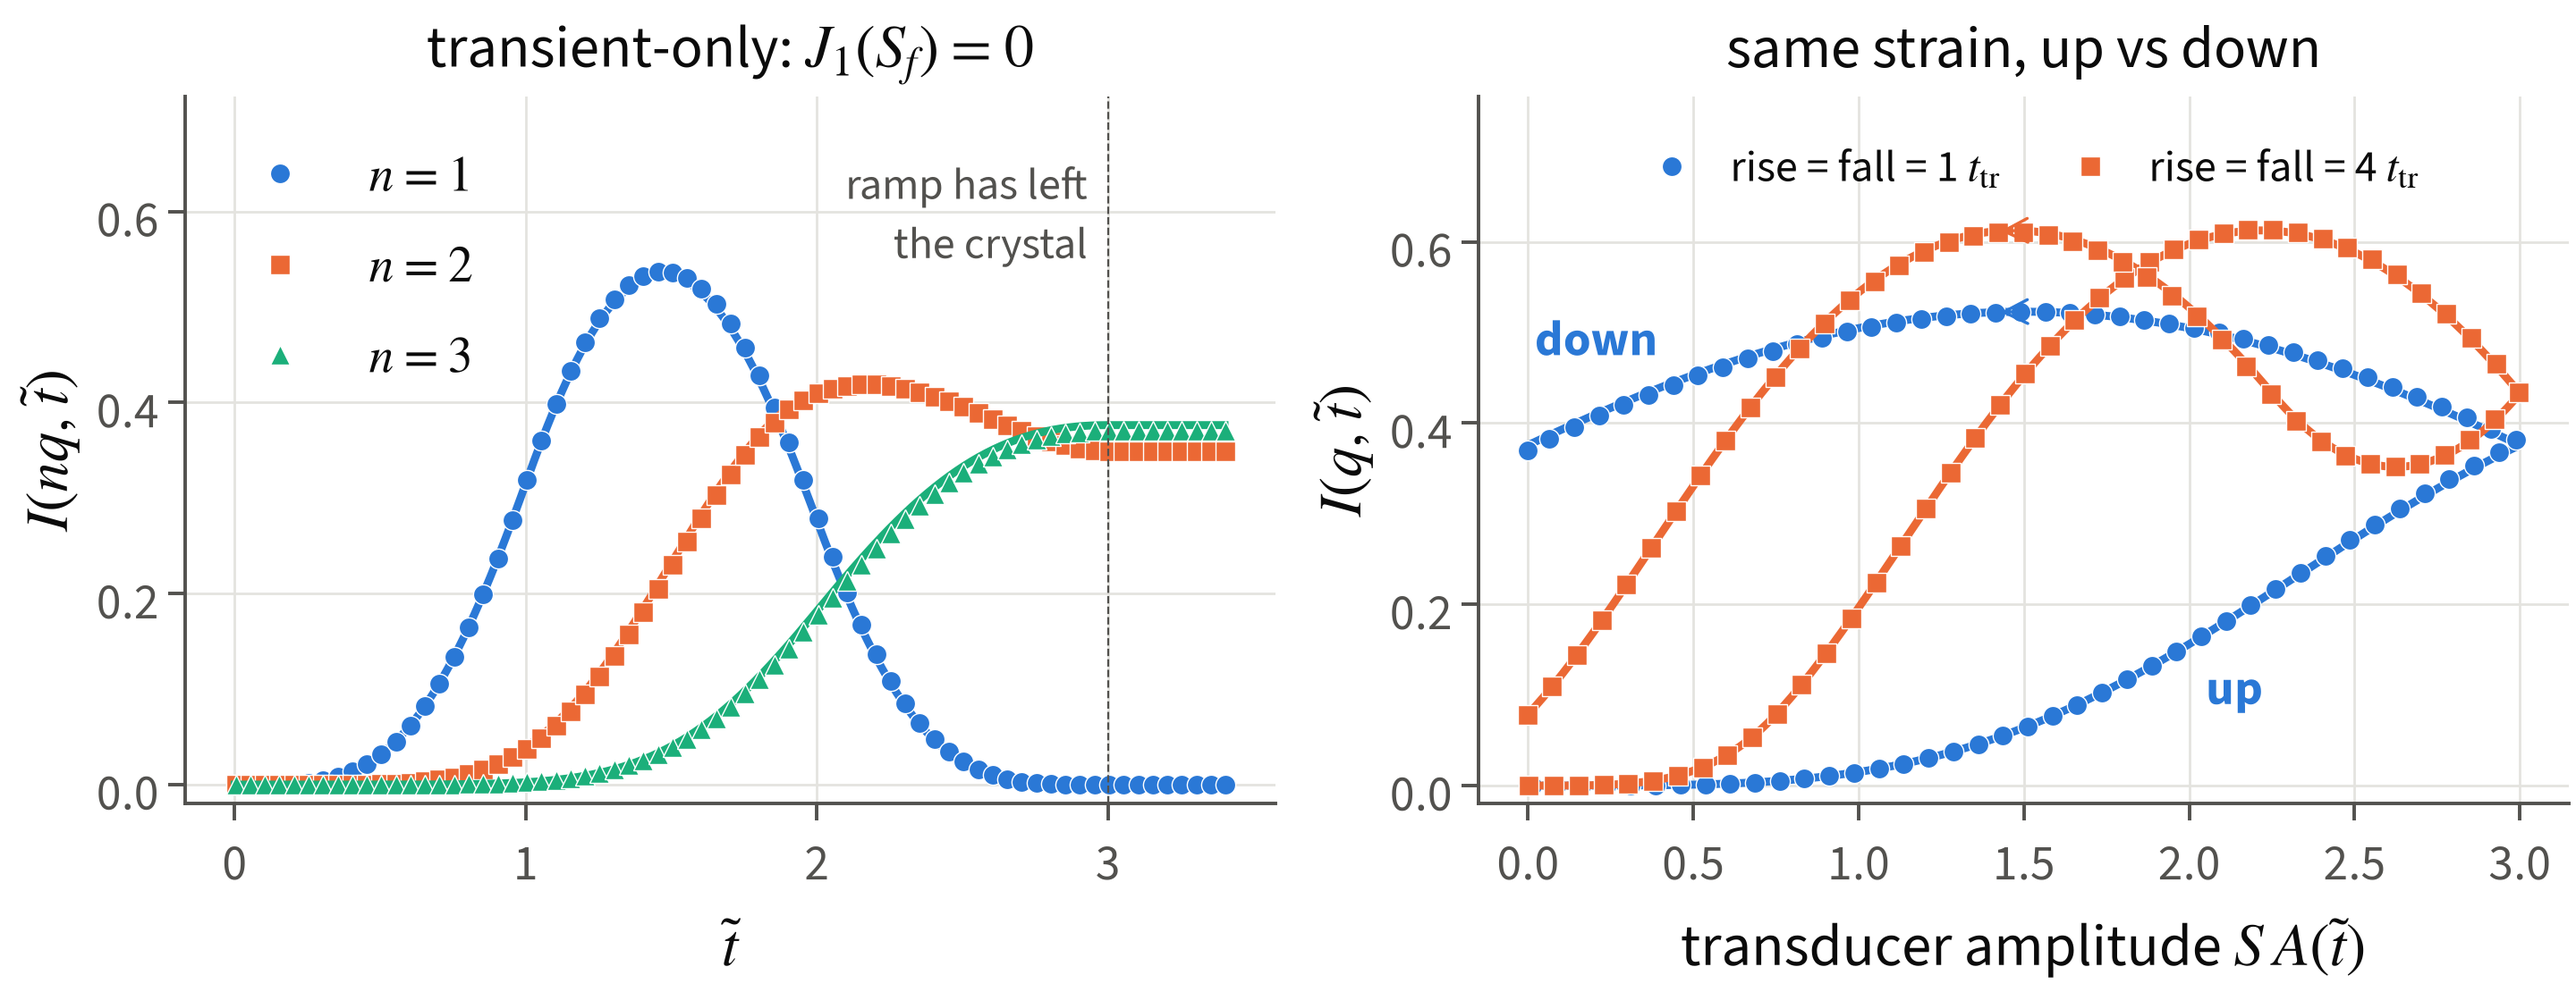
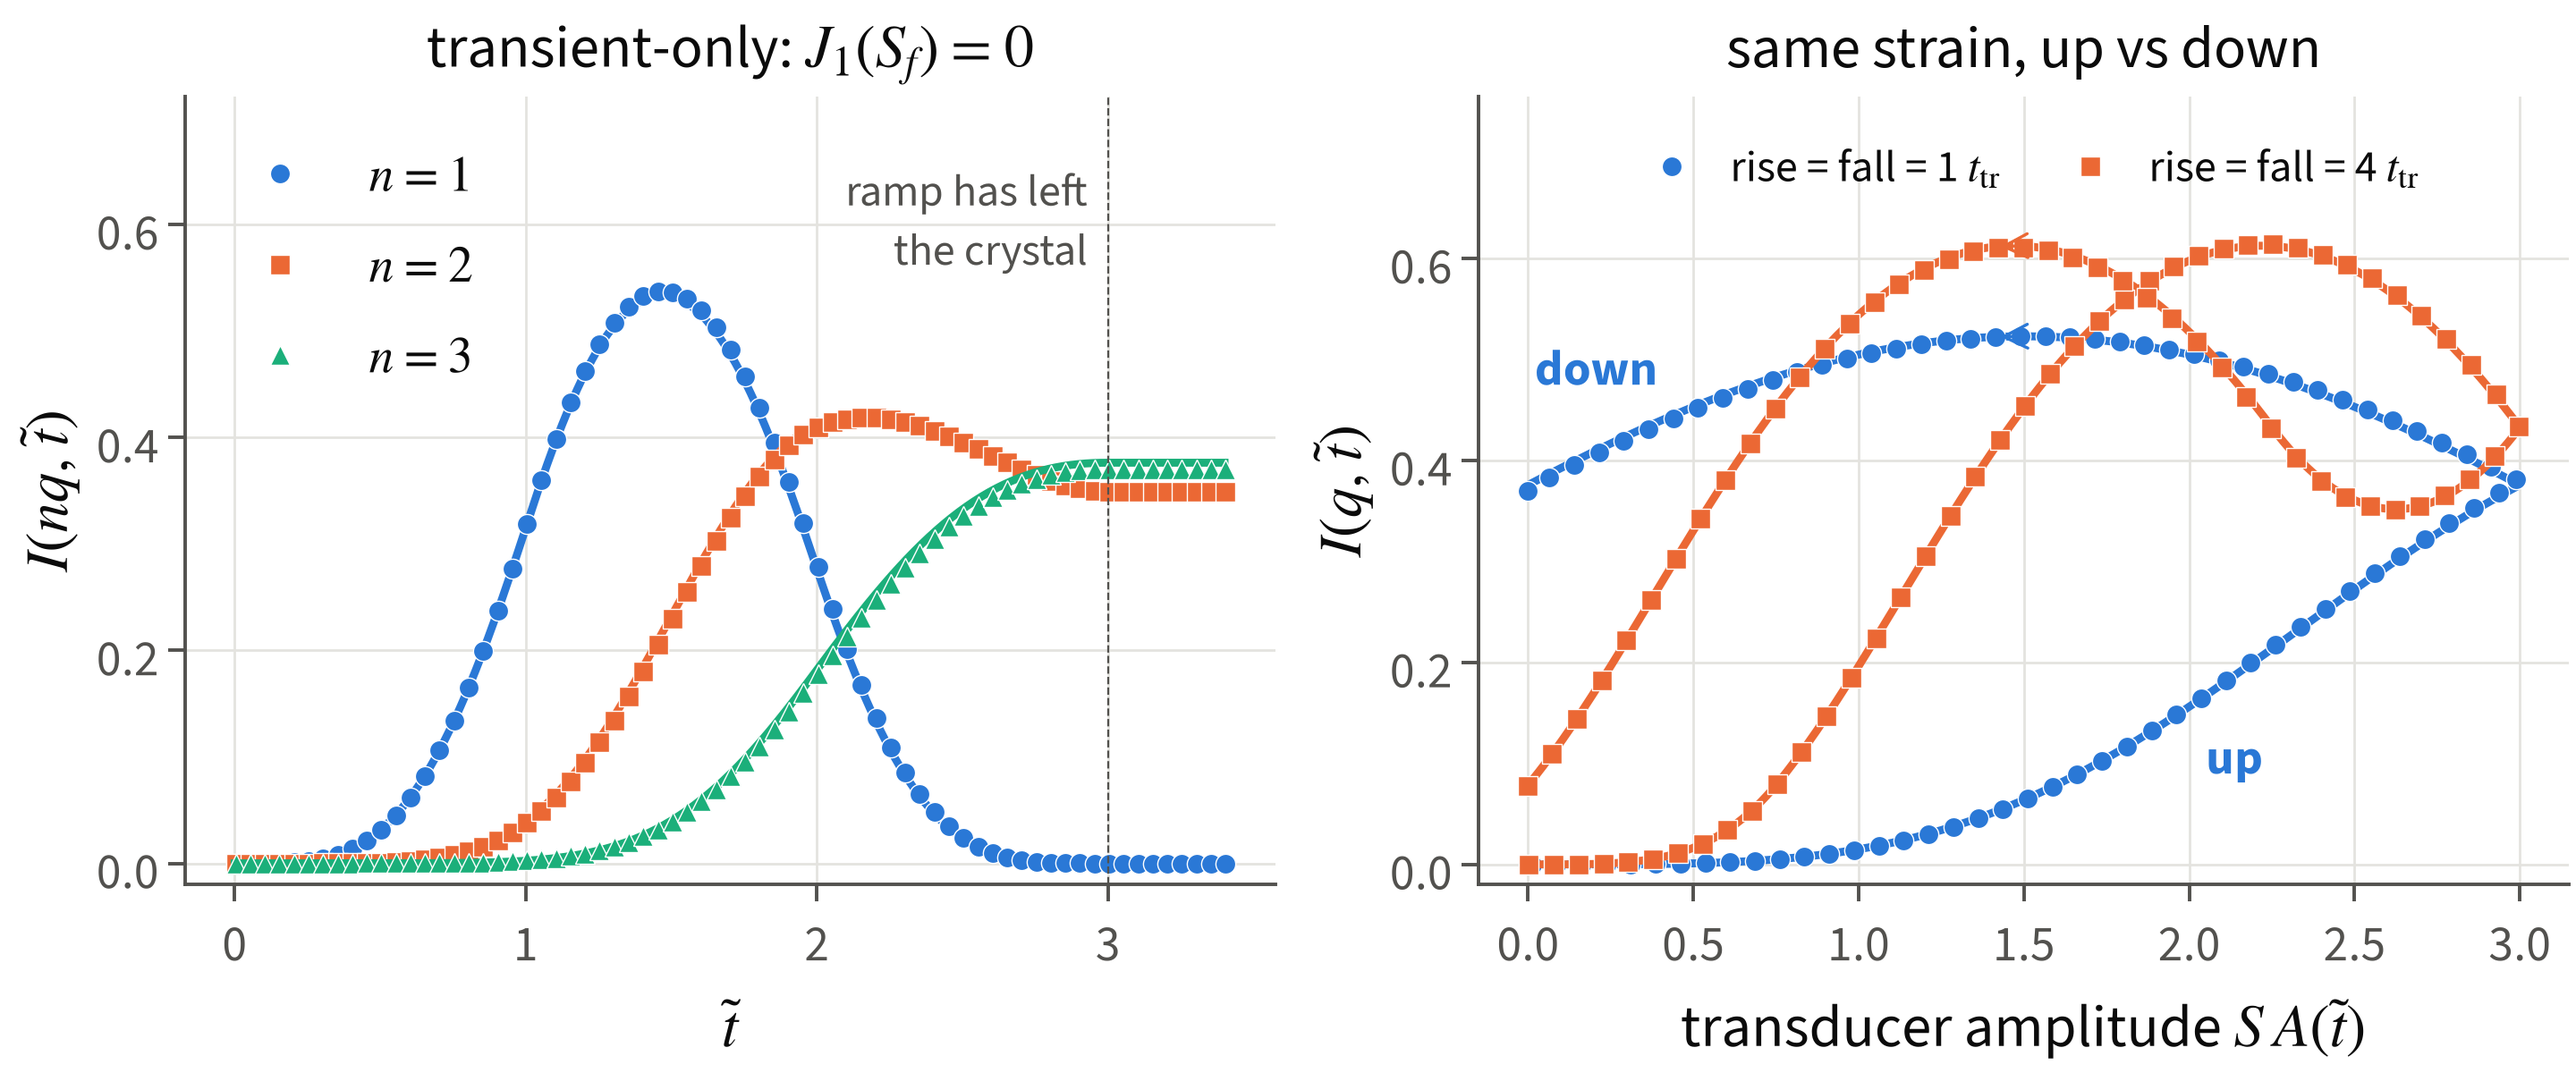
Poster: denser layout, with an Outlook panel for the transfer function
The free height of each column was being spread as 26-31 mm gaps
between boxes. Model now sits in the Overview text column, a new
Outlook panel shows Entries 59 and 64 (one transfer curve; the
Bloch-wave first-order form against the 2003 plane-wave perturbation),
body text is 26 pt as on the lab posters, and the figures take up the
remaining height.

diff --git a/explore/make_poster_figs.py b/explore/make_poster_figs.py
@@ -8,6 +8,8 @@ f1  filled-depth mapping: Laue sin^2 and Bragg tanh^2 collapse      (make_poster
 f2  time-resolved rocking curve near n = 1 and its centre cut        (make_map_figure.compute; Entries 22, 23)
 f3  path memory: transient-only satellite, up vs down a pulse       (make_memory_figure.panel_a/b; Entries 28, 30)
 f4  population error of the independent-channel picture vs R        (make_phase_figure.merged; Entry 54)
+f5  outlook: Fourier weight / kinematic law (Entry 59, e58 data) and the satellite weight of the
+    first-order forms against full TT (Entry 64, e64_sw.json); reads stored results only
 """
 
 from __future__ import annotations
@@ -153,7 +155,7 @@ def f0():
 def f1():
     import make_poster_figure as M
     style()
-    fig, ax = plt.subplots(1, 2, figsize=(FIG_W, 6.9), constrained_layout=True, sharey=True)
+    fig, ax = plt.subplots(1, 2, figsize=(FIG_W, 5.6), constrained_layout=True, sharey=True)
     M.collapse(ax[0], "laue", lambda s: np.sin(np.pi * s) ** 2, r"$\sin^2(\pi\alpha_n\tilde t)$",
                r"Laue: $\sin^2(\pi\alpha_n\tilde t)$", small=SMALL - 4, ms=9)
     M.collapse(ax[1], "bragg", lambda s: np.tanh(np.pi * s) ** 2, r"$\tanh^2(\pi\alpha_n\tilde t)$",
@@ -173,7 +175,7 @@ def f2():
     style()
     r = M.compute()
     deta, t, I, an = r["deta"], r["t"], r["I"], r["an"]
-    fig, ax = plt.subplots(1, 2, figsize=(FIG_W, 5.9), constrained_layout=True,
+    fig, ax = plt.subplots(1, 2, figsize=(FIG_W, 5.2), constrained_layout=True,
                            gridspec_kw=dict(width_ratios=[1.25, 1]))
     im = ax[0].imshow(I, origin="lower", aspect="auto", cmap="Blues", vmin=0, vmax=I.max(),
                       extent=[deta[0], deta[-1], t[0], t[-1]])
@@ -193,7 +195,7 @@ def f2():
 def f3():
     import make_memory_figure as M
     style()
-    fig, ax = plt.subplots(1, 2, figsize=(FIG_W, 5.55), constrained_layout=True)
+    fig, ax = plt.subplots(1, 2, figsize=(FIG_W, 6.0), constrained_layout=True)
     M.panel_a(ax[0], small=SMALL - 2, title=r"transient-only: $J_1(S_f)=0$")
     M.panel_b(ax[1], small=SMALL - 4, title="same strain, up vs down")
     for line in ax[0].lines + ax[1].lines:
@@ -238,6 +240,51 @@ def f4():
     finish(fig, ax, "f4_regime")
 
 
+def f5():
+    import json
+    sys.path.insert(0, str(ROOT / "explore" / "nb"))
+    from e59_transfer import G, T, packet, predict
+    style()
+    nb = ROOT / "explore" / "nb"
+    alpha, kappa, S = 8.0, 6.0, 0.02
+    wd = 2 * np.pi * alpha
+    A = json.load(open(nb / "e58_abs.json"))
+    D = json.load(open(nb / "e58_darwin.json"))
+    fig, ax = plt.subplots(1, 2, figsize=(FIG_W, 5.8), constrained_layout=True)
+    cases = [(0.05, A["S0.02"], wd / 0.05), (0.2, D["RD0.2"], D["RD0.2"]["q0"]), (0.5, D["RD0.5"], D["RD0.5"]["q0"])]
+    for (RD, r, q0), c in zip(cases, (BLUE, ORANGE, AQUA)):
+        eta, Wn = np.array(r["eta"]), np.array(r["W"])
+        Wp, R0 = predict(alpha, kappa, S, q0, eta)
+        Wk = np.abs(R0) * np.abs(G(*packet(S, q0), eta)) * np.pi * alpha * S / kappa / T
+        o = np.argsort(eta)
+        ax[0].plot(eta[o] / wd, (Wp / Wk)[o], "-", color=c, lw=2.4)
+        ax[0].plot(eta / wd, Wn / Wk, "o", ms=7, color=c, mec="white", mew=0.6, label=rf"packet at {1 / RD:g} $\omega_D$")
+    ax[0].axhline(1, color=INK2, lw=1.2, ls=":")
+    ax[0].set(xscale="log", yscale="log", xlabel=r"phonon frequency / Darwin half-width",
+              ylabel="weight / kinematic law", title="one transfer curve: points TT, lines closed form")
+    ax[0].legend(frameon=False, loc="lower right", fontsize=SMALL - 2)
+    E = json.load(open(nb / "e64_sw.json"))
+    x, sw, ric = [], [], []
+    for k, r in E.items():
+        eta, W = np.array(r["eta"]), r["W"]
+        i = np.argmin(np.abs(eta - W))
+        tt = abs(complex(r["TT"][0][i], r["TT"][1][i]))
+        x.append(W / wd)
+        sw.append(abs(complex(r["SW"][0][i], r["SW"][1][i])) / tt)
+        ric.append(abs(complex(r["Riccati"][0][i], r["Riccati"][1][i])) / tt)
+    o = np.argsort(x)
+    x, sw, ric = np.array(x)[o], np.array(sw)[o], np.array(ric)[o]
+    ax[1].plot(x, sw, "s-", color=ORANGE, ms=10, lw=2.4, label="plane-wave perturbation (2003)")
+    ax[1].plot(x, ric, "o-", color=BLUE, ms=10, lw=2.4, label="this work (Bloch-wave form)")
+    ax[1].axhline(1, color=INK2, lw=1.2, ls=":")
+    ax[1].set(xscale="log", yscale="log", xlabel=r"phonon frequency / Darwin half-width",
+              ylabel="satellite weight / full TT", title="inside the Darwin width")
+    ax[1].set_yticks([1, 2, 4, 8], labels=["1", "2", "4", "8"])
+    ax[1].yaxis.set_minor_formatter(mpl.ticker.NullFormatter())
+    ax[1].legend(frameon=False, loc="upper right", fontsize=SMALL - 2)
+    finish(fig, ax, "f5_outlook")
+
+
 if __name__ == "__main__":
-    for name in (sys.argv[1:] or ["f0", "f1", "f2", "f3", "f4"]):
+    for name in (sys.argv[1:] or ["f0", "f1", "f2", "f3", "f4", "f5"]):
         globals()[name]()

diff --git a/poster/build.py b/poster/build.py
@@ -83,7 +83,7 @@ NOTEBOOK = ROOT / "notes" / "lab_notebook.md"
 SPEC = dict(
     W=841, H=1189, margin=16, gap=14, cols=2, pad=13,
     header_h=130, stripe_h=5, footer_h=56,
-    title_pt=52, authors_pt=30, head_pt=40, badge_pt=30, body_pt=28, callout_pt=31, caption_pt=22,
+    title_pt=52, authors_pt=30, head_pt=40, badge_pt=30, body_pt=26, callout_pt=29, caption_pt=21,
     stat_pt=50, stat_label_pt=21, min_pt=20,
     leading=1.32, para_gap=7, panel_gap=11, fig_gap=4,
     navy="#0f2a3a", accent="#e8743b", page="#ffffff", card="#ffffff", edge="#4a4a4a", key="#fbf1d9",

diff --git a/poster/poster.md b/poster/poster.md
@@ -24,15 +24,12 @@ A travelling acoustic wave enters a perfect crystal. The steady-state satellites
 
 Temporal Pendellösung of the main reflection: DeCamp et al., Nature 413, 825 (2001). Steady-state acoustic satellites: Entin; Zolotoyabko et al. {E7}
 
+- Two-beam Takagi–Taupin, travelling acoustic deformation, Laue and Bragg; $\alpha = L/\Lambda_P$, $S = h\cdot u_0$, $R = \Lambda_{ac}/\Lambda_P$. The lattice is static while the field is inside, $\beta \leq 1.2\times10^{-2}$. {E0}{E62}
+- Verified to $10^{-9}$ against analytic limits and $3\times10^{-7}$ against an independent exact Floquet solver. {E0}{E42}
+
 ![Snapshot at $\tilde t$ = 0.62: the profile inside the slab is the drive, the curve on the right the solved $I(\eta)$ of that same instant ($\alpha$ = 0.6, $S$ = 1.5, $\alpha_{ac}$ = 5).](figures/poster/f0_scheme.png){E0}
 
 > **Key result.** Each satellite diffracts from the filled depth $v_s t$, on its own clock $\tau_n = \Lambda_P/(v_s\left|J_n(S)\right|)$. **Transit time sets the window; extinction length sets the clock.** {E1}{E9}{E33}
-
-## Model: two-beam Takagi–Taupin, verified to $10^{-9}$
-
-- Travelling acoustic deformation, Laue and Bragg geometry. {E0}
-- $\alpha = L/\Lambda_P$, $S = h\cdot u_0$, $R = \Lambda_{ac}/\Lambda_P$; the lattice is static while the field is inside, $\beta \leq 1.2\times10^{-2}$. {E0}{E62}
-- Verified to $10^{-9}$ against analytic limits and $3\times10^{-7}$ against an independent exact Floquet solver. {E0}{E42}
 
 ## Filled-depth mapping: one law, no fit
 
@@ -46,6 +43,13 @@ Temporal Pendellösung of the main reflection: DeCamp et al., Nature 413, 825 (2
 
 ![Satellite $n=1$, $S=1.5$, $\alpha=3$: the line narrows and blinks as the front fills the crystal.](figures/poster/f2_fringes.png){E22}{E23}
 
+## When does the independent-satellite picture fail?
+
+- Accurate to 5 % up to $R \lesssim 0.3$; computed boundary **0.34–0.57**, depending on $S$. {E53}{E54}
+- Past it the channels talk through sidebands of the forward beam — the same third-order path, $\pi\alpha (R/2)^2 C_n(S)$, that brings a Bessel-dark order back. {E44}{E45}{E50}{E52}
+
+![Population error of the independent-channel picture. Each point is one $(\alpha, \alpha_{ac}, S)$, exact acoustic-phase average.](figures/poster/f4_regime.png){E54}
+
 @column
 
 ## Formation remembers the path
@@ -56,12 +60,12 @@ Temporal Pendellösung of the main reflection: DeCamp et al., Nature 413, 825 (2
 
 ![Laue, $\alpha=0.5$: points full TT, lines the $\Theta_n$ law.](figures/poster/f3_memory.png){E28}{E30}
 
-## When does the independent-satellite picture fail?
+## Outlook: Bragg oscillations as a phonon spectrometer
 
-- Accurate to 5 % up to $R \lesssim 0.3$; computed boundary **0.34–0.57**, depending on $S$. {E53}{E54}
-- Past it the channels talk through sidebands of the forward beam — the same third-order path, $\pi\alpha (R/2)^2 C_n(S)$, that brings a Bessel-dark order back. {E44}{E45}{E50}{E52}
+- The Fourier weight of $R(t)$ is the strain spectrum times a crystal transfer function $H(\omega)$, closed form at first order in $S$; full TT agrees to 2–5 %. {E59}
+- It holds inside the Darwin width, where the plane-wave perturbation of Sondhauss & Wark (2003) is off by ×3–8. {E64}
 
-![Population error of the independent-channel picture. Each point is one $(\alpha, \alpha_{ac}, S)$, exact acoustic-phase average.](figures/poster/f4_regime.png){E54}
+![(a) Fourier weight over the kinematic law vs phonon frequency, $\kappa/2\pi\alpha$ = 0.12: three packets, one curve; divide it out to recover the spectrum. (b) Satellite weight of the first-order forms over full TT, single mode.](figures/poster/f5_outlook.png){E59}{E64}
 
 ## Take home
 
@@ -71,4 +75,4 @@ Temporal Pendellösung of the main reflection: DeCamp et al., Nature 413, 825 (2
 
 A travelling acoustic front makes every Bragg satellite a dynamical probe: its own clock, its own memory of the drive, valid while the channels stay resolved. {E33}
 
-- Si 440 at 17–30 keV, 1–2 GHz: $\tau_1$ = 17–30 ns. Outlook: a first-order transfer function maps Bragg oscillations to phonon spectra within a few %, also inside the Darwin width. {E20}{E59}{E64}
+- Si 440 at 17–30 keV, 1–2 GHz: $\tau_1$ = 17–30 ns. {E20}
